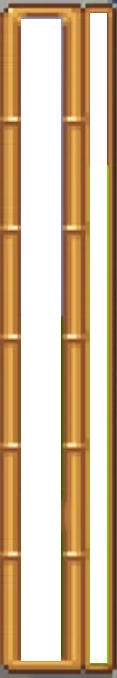
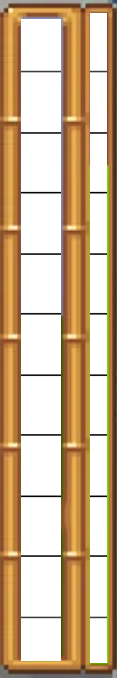
Added the fish health

diff --git a/Assets/Script/Game_manager/SkillFishing.cs b/Assets/Script/Game_manager/SkillFishing.cs
@@ -22,6 +22,10 @@ public class SkillFishing : MonoBehaviour
     private float hookTime = 0f;
     public bool isHooked = false;
     public System.Action OnLineBreak;
+    // New variables you must add inside SkillFishing:
+    public float fishMaxHealth = 100f;   // fish starting health
+    public float fishHealth = 100f;      // runtime health
+
 
 
     public void SetupFishStats(float strength, float catchS, float escapeS)
@@ -40,10 +44,11 @@ public class SkillFishing : MonoBehaviour
         reelMomentum = 0f;
 
         isHooked = true;
-
+        fishHealth = fishMaxHealth; // reset HP
         // Call the actual animation trigger function
         if (fishCtrl != null)
             fishCtrl.Hooked();
+
     }
 
 
@@ -108,6 +113,24 @@ public class SkillFishing : MonoBehaviour
             depth += escapeSpeed * Time.deltaTime;
         }
 
+        // === Apply damage to fish if player pulls correctly ===
+        // pullingImpulse means player pressed A
+        // tension inside safe range means correct pull
+
+        if (pullingImpulse && tension > minSafeTension && tension < maxSafeTension)
+        {
+            float dmg = catchSpeed * 8f;
+            fishHealth -= dmg;
+
+            // Check if fish is defeated
+            if (fishHealth <= 0f)
+            {
+                fishHealth = 0f;
+                isHooked = false;
+                return BattleResult.Win;
+            }
+        }
+
         // 6) Check win/lose by depth
         if (depth <= 0f)
         {
@@ -120,6 +143,9 @@ public class SkillFishing : MonoBehaviour
             return BattleResult.Lose;
         }
 
+       
+
+
         return BattleResult.None;
     }
     public void SetPlayerReelInput(float input)
@@ -129,11 +155,23 @@ public class SkillFishing : MonoBehaviour
 
     float ComputeFishForce(float t)
     {
+        // Base fish pulling strength
         float s = baseStrength;
 
-        if (t < 1f) return s * 1.0f;  // strong start
-        if (t < 3f) return s * 0.8f;  // easier window
-        if (t < 5f) return s * 1.1f;  // spike
-        return s * 0.5f;              // tired
+        // Health factor: fish becomes weaker when health is low
+        // Example:
+        // 100% health -> factor = 1.0
+        //  50% health -> factor = 0.5
+        //   0% health -> factor = 0.2 (still pulls a bit)
+        float healthFactor = Mathf.Clamp(fishHealth / fishMaxHealth, 0.2f, 1.0f);
+
+        // Time based pulling pattern
+        if (t < 1f) s *= 1.0f;  // strong start
+        else if (t < 3f) s *= 0.8f;  // easier window
+        else if (t < 5f) s *= 1.1f;  // power spike
+        else s *= 0.5f;  // tired after long battle
+
+        // Apply health reduction to final force
+        return s * healthFactor;
     }
 }

diff --git a/Assets/Script/Game_manager/FishingBarUI.cs b/Assets/Script/Game_manager/FishingBarUI.cs
@@ -55,6 +55,23 @@ public class FishingBarUI : MonoBehaviour
     // tension: current tension value
     // minSafe: tension value at 0% of bar (for example -10)
     // maxSafe: tension value at 100% of bar (for example +10)
+    // New method: update fish strength and move icon top-to-bottom
+    public void UpdateFishStrength(float strength, float maxStrength)
+    {
+        if (!isActive || fishIcon == null)
+            return;
+
+        float sNorm = Mathf.InverseLerp(0f, maxStrength, strength);
+        sNorm = Mathf.Clamp01(sNorm);
+
+        float yPos = sNorm * barHeight;
+
+        Vector2 anchored = fishIcon.anchoredPosition;
+        anchored.y = yPos;
+        fishIcon.anchoredPosition = anchored;
+    }
+
+
     public void UpdateTension(
         float tension,
         float minSafe,
@@ -85,12 +102,12 @@ public class FishingBarUI : MonoBehaviour
         backImage.fillAmount = tNorm;
 
         // Move fish icon along the bar height (bottom -> top)
-        if (fishIcon != null)
-        {
-            Vector2 anchored = fishIcon.anchoredPosition;
-            anchored.y = tNorm * barHeight;
-            fishIcon.anchoredPosition = anchored;
-        }
+        //if (fishIcon != null)
+        //{
+        //    Vector2 anchored = fishIcon.anchoredPosition;
+        //    anchored.y = tNorm * barHeight;
+        //    fishIcon.anchoredPosition = anchored;
+        //}
 
         // Color gradient for tension:
         // low = blue, medium = green/yellow, high = red
@@ -118,6 +135,7 @@ public class FishingBarUI : MonoBehaviour
         // NOTE: progressImage is not changed here.
         // You can use it later for another parameter.
     }
+
 
     public void Show()
     {

diff --git a/Assets/Script/Fish/FishController.cs b/Assets/Script/Fish/FishController.cs
@@ -21,6 +21,29 @@ public class FishController : MonoBehaviour
     // NEW: animator for battle animation
     private Animator anim;
 
+    // ============================================================
+    // NEW: Fish health system
+    // ============================================================
+
+    public float maxHealth = 100f;   // maximum HP of this fish
+    public float health = 100f;      // runtime remaining HP
+
+    // Reduces health and clamps at 0
+    public void TakeDamage(float dmg)
+    {
+        health -= dmg;
+        if (health < 0f)
+            health = 0f;
+    }
+
+    // Returns true when HP reaches zero
+    public bool IsDead()
+    {
+        return health <= 0f;
+    }
+    // ============================================================
+
+
     void Start()
     {
         Camera cam = Camera.main;
@@ -32,6 +55,9 @@ public class FishController : MonoBehaviour
 
         // get animator
         anim = GetComponent<Animator>();
+
+        // NEW: ensure HP always starts at full
+        health = maxHealth;
     }
 
     void Update()
@@ -51,6 +77,9 @@ public class FishController : MonoBehaviour
     {
         isHooked = true;
 
+        // NEW: reset HP on hook (optional but recommended)
+        health = maxHealth;
+
         // NEW: enter battle animation
         if (anim != null)
             anim.SetBool("isBattle", true);
@@ -61,6 +90,7 @@ public class FishController : MonoBehaviour
     {
         isHooked = false;
 
+        // reset battle animation
         if (anim != null)
             anim.SetBool("isBattle", false);
     }

diff --git a/Assets/Script/Player/HookController.cs b/Assets/Script/Player/HookController.cs
@@ -185,6 +185,13 @@ public class HookController : MonoBehaviour
                 result,
                 skillFishing.isHooked
             );
+            // NEW: Update fish strength bar (fish icon moves top to bottom)
+            // NEW: update fish icon position using fish health
+            ui.UpdateFishStrength(
+                skillFishing.fishHealth,       // current health value
+                skillFishing.fishMaxHealth     // the health max value
+            );
+
         }
 
         if (!skillFishing.isHooked)
